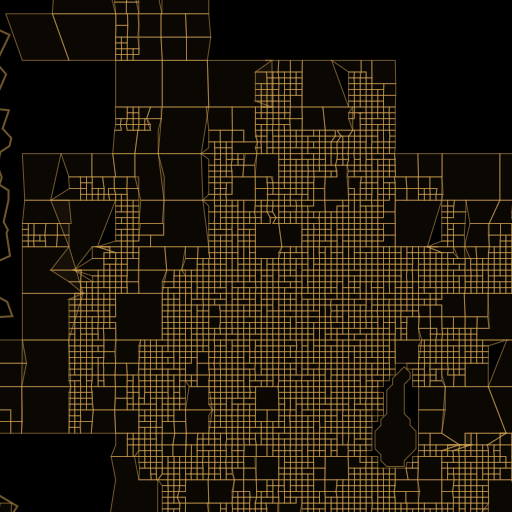
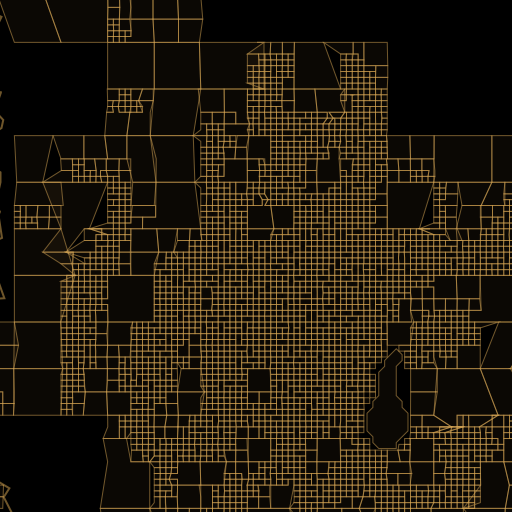
adding some parks

diff --git a/lib/add-magic.ts b/lib/add-magic.ts
@@ -1,13 +1,20 @@
-const traverse = require('traverse');
+import logger = require('../util/logger/index');
+import logStep = require('../util/logger/log-step');
+
+const traverse = require('traverse'),
+    _ = require('lodash');
 
 // I'm running out of time before the presentation, so let's add some smoke and mirrors
 function addMagic(opts: IGenerateCityOpts, streetGrid: GeoJSON.FeatureCollection): GeoJSON.FeatureCollection {
-    return traverse(streetGrid).map(function(node: any) {
-        if (this.key === 'properties') {
-            const mixin = opts.streetGrid.magic[node.id] || {};
-            this.update(node, mixin, true);
-        }
-    });
+    return logStep({step: 'adding magic', loglevel: 'debug'}, () =>
+        traverse(streetGrid).map(function(node: any) {
+            if (this.key === 'properties') {
+                const mixin = opts.streetGrid.magic[node.id] || {};
+                logger.trace({nodeId: node.id, mixin}, 'lookup block');
+                this.update(_.merge({}, node, mixin), true);
+            }
+        })
+    );
 }
 
 export = addMagic;

diff --git a/lib/default-opts.ts b/lib/default-opts.ts
@@ -92,7 +92,28 @@ const defaults: IGenerateCityOpts = {
                 // Range: [0, 1]
                 mergeThreshold: .75
             },
-            magic: {}
+
+            // To save time for the demo, we will add some smoke and mirrors.
+            // Note that this is coupled to the seed; if you change the seed, then
+            // the id values in this object will have totally different meanings
+            // and you'll get unexpected results.
+            magic: {
+                'street-block-2140': {
+                    park: true
+                },
+                'street-block-2137': {
+                    park: true
+                },
+                'street-block-806': {
+                    park: true
+                },
+                'street-block-4739': {
+                    park: true
+                },
+                'street-block-4740': {
+                    park: true
+                },
+            }
         },
         removeIntersectingElements: true,
         seed: 'default-seed',
